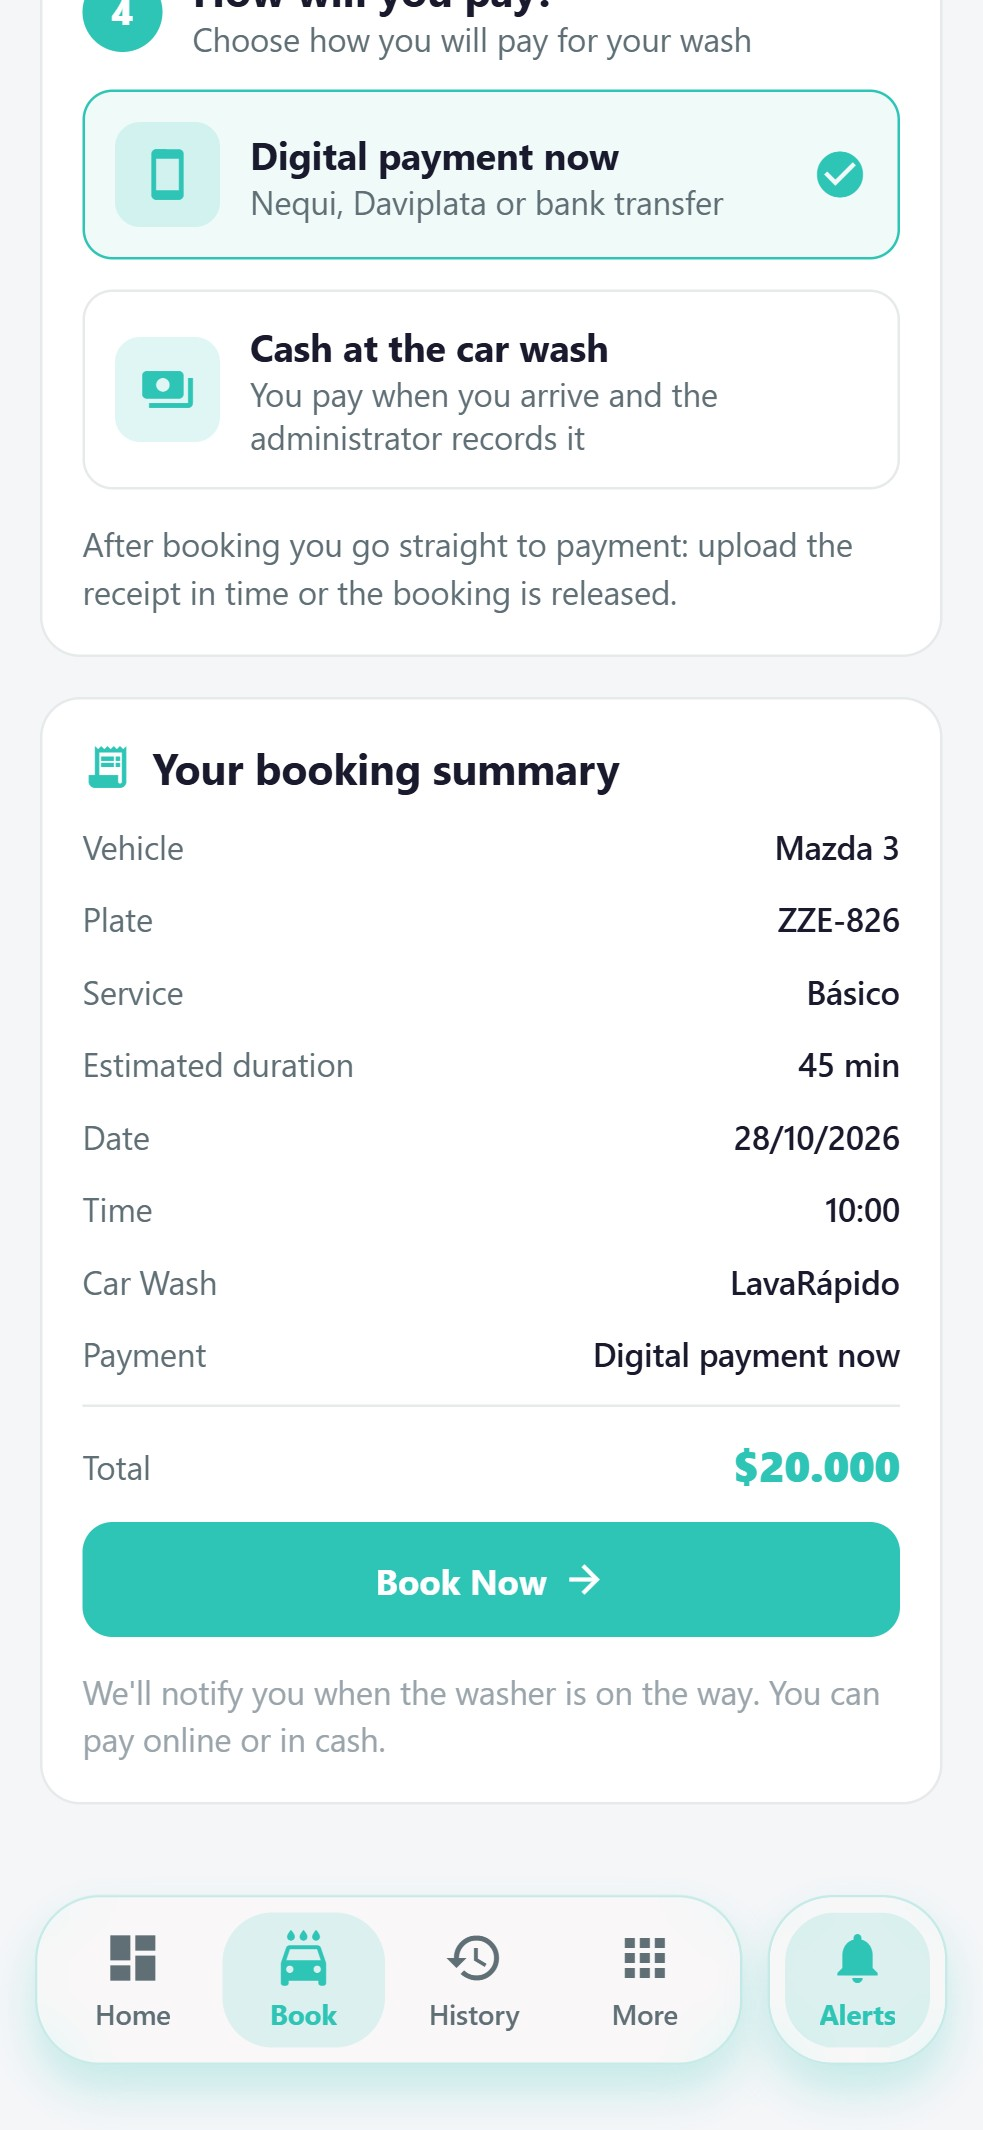
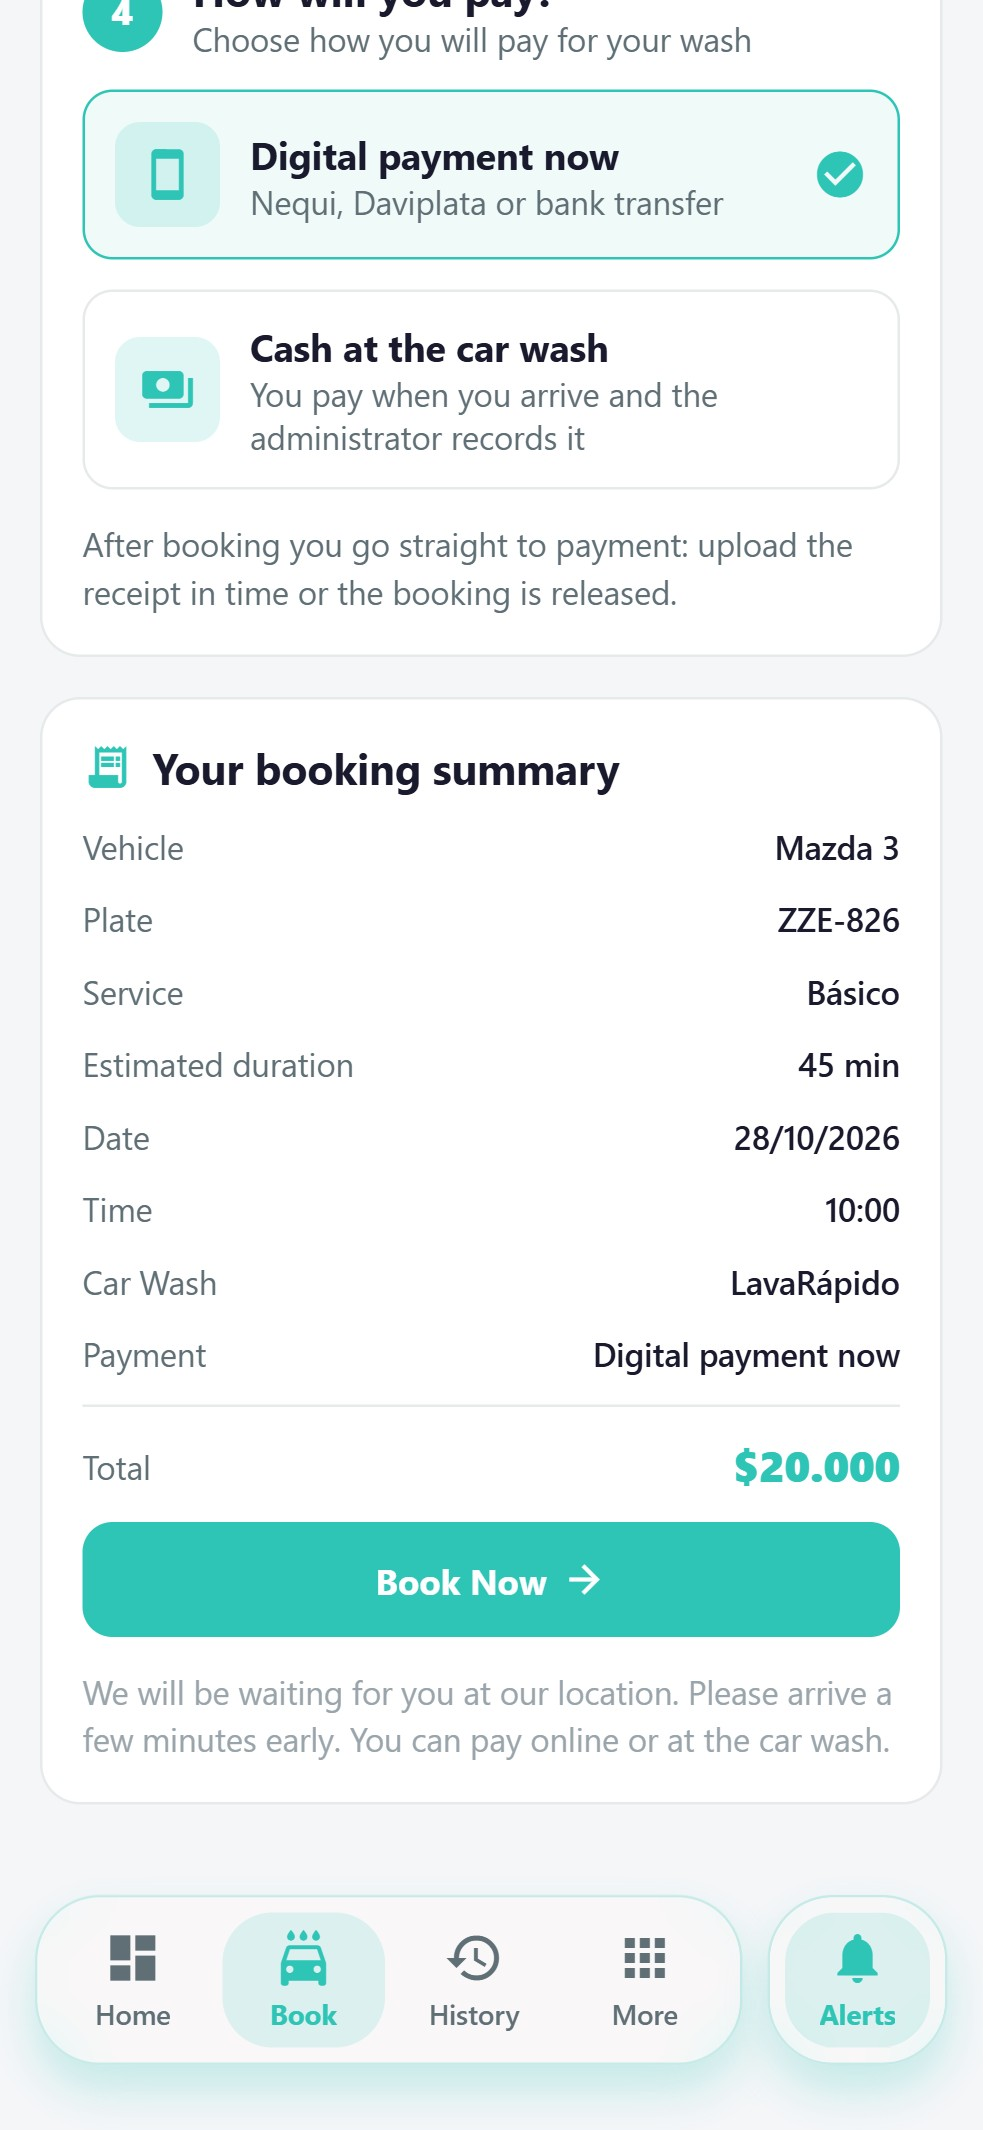
docs(deployment): use the CI test count of payment-service v1.1.3

Changed region(s): [[0.1221, 0.7746, 0.9156, 0.8366], [0.0916, 0.8056, 0.1221, 0.8366]]

diff --git a/07_PROCEDIMIENTO_DE_IMPLEMENTACION/EN/MD/deployment-document.md b/07_PROCEDIMIENTO_DE_IMPLEMENTACION/EN/MD/deployment-document.md
@@ -272,7 +272,7 @@ The live tests run earlier locally, with the two simulated failures, are in the 
 
 #### 1.3.14 payment-service v1.1.3: approved, pending publication (2026-10-27)
 
-- **What it brings (PR #15 and release PR #16, approved by Brayan Patiño).** No passwords in the code: the end-to-end script reads `DEMO_CLIENT_PASSWORD` and `DEMO_ADMIN_PASSWORD` from the environment or `lavarapido-infra/.env`. The service does not start without `DB_PASSWORD` and, with `MESSAGING_ENABLED=true` against a remote RabbitMQ, not without `RABBITMQ_USERNAME` and `RABBITMQ_PASSWORD` either (`guest` only with a local RabbitMQ). `.gitignore` covers any `.env.*`. The local test database moves to SQL Server 2022 and `LavaRapidoPaymentIT`, like the CI, and the end-to-end script passes again (payment method when booking and a digital account). 263 tests.
+- **What it brings (PR #15 and release PR #16, approved by Brayan Patiño).** No passwords in the code: the end-to-end script reads `DEMO_CLIENT_PASSWORD` and `DEMO_ADMIN_PASSWORD` from the environment or `lavarapido-infra/.env`. The service does not start without `DB_PASSWORD` and, with `MESSAGING_ENABLED=true` against a remote RabbitMQ, not without `RABBITMQ_USERNAME` and `RABBITMQ_PASSWORD` either (`guest` only with a local RabbitMQ). `.gitignore` covers any `.env.*`. The local test database moves to SQL Server 2022 and `LavaRapidoPaymentIT`, like the CI, and the end-to-end script passes again (payment method when booking and a digital account). Tests: 275 in the CI (domain 142, application 61, API 47, and 25 in the infrastructure project, 12 of them against SQL Server).
 - **Production already meets those checks:** `docker-compose.prod.yml` requires `RABBITMQ_USERNAME` and `RABBITMQ_PASSWORD` in `.env.production` and passes `DB_PASSWORD` to payment; `/actuator/health` still answers `{"status":"UP"}`. Merging PR #16 into `main` publishes it on Azure through continuous deployment (section 4.3.4); those three variables should be confirmed in the server's `.env.production` first.
 - **Pending security item (ACO-25).** payment-service's Git history still holds two old SQL Server passwords and the demo account ones; if any SQL Server one is used on the server, it must be changed.
 

diff --git a/07_PROCEDIMIENTO_DE_IMPLEMENTACION/ES/MD/documento-de-despliegue.md b/07_PROCEDIMIENTO_DE_IMPLEMENTACION/ES/MD/documento-de-despliegue.md
@@ -272,7 +272,7 @@ Las pruebas en vivo hechas antes en local, con las dos fallas simuladas, están 
 
 #### 1.3.14 payment-service v1.1.3: aprobada, pendiente de publicar (27-10-2026)
 
-- **Qué trae (PR #15 y release PR #16, aprobados por Brayan Patiño).** Sin contraseñas en el código: el script de punta a punta lee `DEMO_CLIENT_PASSWORD` y `DEMO_ADMIN_PASSWORD` del entorno o de `lavarapido-infra/.env`. El servicio no arranca sin `DB_PASSWORD` y, con `MESSAGING_ENABLED=true` contra un RabbitMQ remoto, tampoco sin `RABBITMQ_USERNAME` y `RABBITMQ_PASSWORD` (`guest` solo con RabbitMQ local). `.gitignore` cubre cualquier `.env.*`. La base de pruebas local pasa a SQL Server 2022 y `LavaRapidoPaymentIT`, como el CI, y el script de punta a punta vuelve a pasar (forma de pago al reservar y cuenta digital). 263 pruebas.
+- **Qué trae (PR #15 y release PR #16, aprobados por Brayan Patiño).** Sin contraseñas en el código: el script de punta a punta lee `DEMO_CLIENT_PASSWORD` y `DEMO_ADMIN_PASSWORD` del entorno o de `lavarapido-infra/.env`. El servicio no arranca sin `DB_PASSWORD` y, con `MESSAGING_ENABLED=true` contra un RabbitMQ remoto, tampoco sin `RABBITMQ_USERNAME` y `RABBITMQ_PASSWORD` (`guest` solo con RabbitMQ local). `.gitignore` cubre cualquier `.env.*`. La base de pruebas local pasa a SQL Server 2022 y `LavaRapidoPaymentIT`, como el CI, y el script de punta a punta vuelve a pasar (forma de pago al reservar y cuenta digital). Pruebas: 275 en el CI (dominio 142, aplicación 61, API 47 y 25 del proyecto de infraestructura, 12 de ellas contra SQL Server).
 - **Producción ya cumple esas validaciones:** `docker-compose.prod.yml` exige `RABBITMQ_USERNAME` y `RABBITMQ_PASSWORD` en `.env.production` y le pasa `DB_PASSWORD` a payment; `/actuator/health` sigue respondiendo `{"status":"UP"}`. Al fusionar el PR #16 a `main`, el despliegue continuo lo publica en Azure (sección 4.3.4); antes conviene confirmar esas tres variables en el `.env.production` del servidor.
 - **Pendiente de seguridad (ACO-25).** En el historial de Git de payment-service quedaron dos contraseñas antiguas de SQL Server y las de las cuentas demo; si alguna de SQL Server se usa en el servidor, hay que cambiarla.
 
